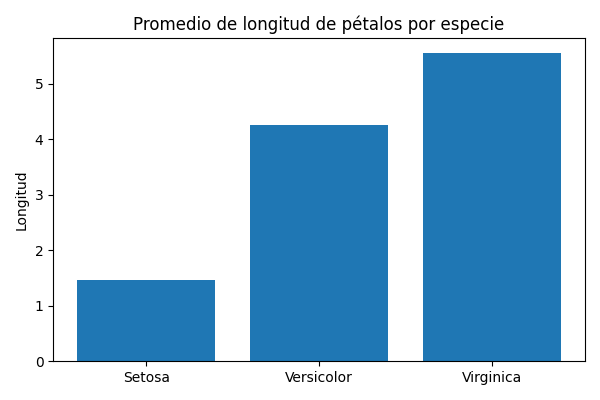
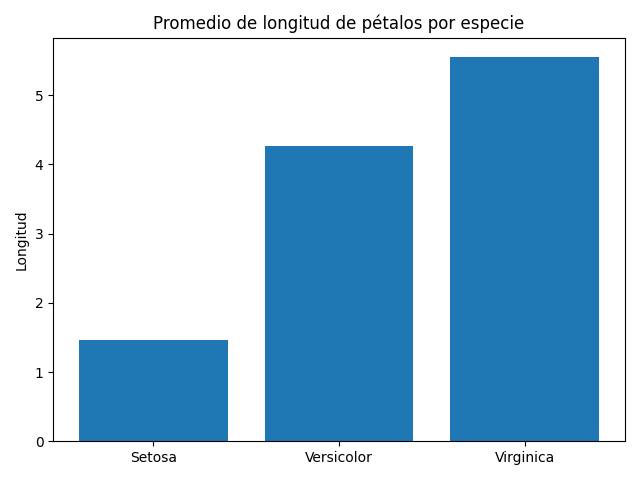
eliminar redundancias y agregar condicionales al análisis

Changed region(s): [[0.0, 0.03, 0.99, 0.99]]

diff --git a/main.py b/main.py
@@ -2,6 +2,7 @@ import json
 import pandas as pd
 import matplotlib.pyplot as plt
 import seaborn as sns
+import os
 
 # Para abrir el archivo JSON
 f = open("data/iris.json")
@@ -14,7 +15,6 @@ df = pd.DataFrame(data)
 print("Número de registros:", len(df))
 print("Columnas:", df.columns)
 print("\nVariables existentes:")
-print(list(data[0].keys()))
 
 
 print(df.head())
@@ -22,38 +22,48 @@ print(df.head())
 print("\nResumen estadistico del dataset:")
 print(df.describe())
 
-print("\nEstadísticas por especie:")
-print(df.groupby("variety").describe())
+resumen = df.groupby("variety").agg({
+    "sepal.length": ["mean", "min", "max"],
+    "sepal.width": ["mean", "min", "max"],
+    "petal.length": ["mean", "min", "max"],
+    "petal.width": ["mean", "min", "max"]
+})
 
-promedio = df.groupby("variety")["petal.length"].mean()
+print("\nResumen por especie:")
+print(resumen)
 
-#Promedio de pétalos por especie
-plt.figure(figsize=(6,4))
-plt.bar(promedio.index, promedio.values)
+promedios = df.groupby("variety").mean()
+
+plt.figure()
+plt.bar(promedios.index, promedios["petal.length"])
 plt.title("Promedio de longitud de pétalos por especie")
 plt.ylabel("Longitud")
 plt.tight_layout()
 plt.savefig("Visualizaciones/petal_promedio.png")
+plt.close()
 
-df.groupby("variety")["sepal.length"].mean().plot(kind="bar")
-
+# Promedio de sépalo
+plt.figure()
+plt.bar(promedios.index, promedios["sepal.length"])
 plt.title("Promedio del largo del sépalo por especie")
 plt.ylabel("Largo del sépalo")
-
 plt.xticks(rotation=45)
 plt.tight_layout()
-
 plt.savefig("Visualizaciones/sepal_promedio.png")
-plt.clf()
+plt.close()
 
-#Relación entre largo y ancho del sépalo por especie
+# Scatter
 sns.scatterplot(x="sepal.length", y="sepal.width", hue="variety", data=df)
-
 plt.title("Relación entre largo y ancho del sépalo")
 plt.tight_layout()
-
 plt.savefig("Visualizaciones/sepal_scatter.png")
-plt.clf()
+plt.close()
+
+mayor_petalo = promedios["petal.length"].idxmax()
+menor_petalo = promedios["petal.length"].idxmin()
+
+variabilidad = df.groupby("variety")["petal.length"].std()
+mas_variable = variabilidad.idxmax()
 
 reporte = f"""
 # Reporte de análisis del dataset Iris

diff --git a/Reporte/reporte.md b/Reporte/reporte.md
@@ -8,7 +8,7 @@ Esto ayuda a comparar las especies y entender mejor sus características.
 
 ## Promedio de longitud de pétalos por especie
 
-![Promedio de pétalos](../Visualizaciones/petal_promedio.png)
+![Promedio de pétalos](Visualizaciones/petal_promedio.png)
 
 Este gráfico muestra el promedio de la longitud de los pétalos para cada especie de flor.
 
@@ -16,7 +16,7 @@ Este gráfico muestra el promedio de la longitud de los pétalos para cada espec
 
 ## Promedio del largo del sépalo por especie
 
-![Promedio del sépalo](../Visualizaciones/sepal_promedio.png)
+![Promedio del sépalo](Visualizaciones/sepal_promedio.png)
 
 Aquí se puede ver que el tamaño del sépalo también cambia dependiendo de la especie.
 
@@ -24,7 +24,7 @@ Aquí se puede ver que el tamaño del sépalo también cambia dependiendo de la 
 
 ## Relación entre largo y ancho del sépalo por especie
 
-![Relación del sépalo](../Visualizaciones/sepal_scatter.png)
+![Relación del sépalo](Visualizaciones/sepal_scatter.png)
 
 En este gráfico se observa la relación entre el largo y el ancho del sépalo. Los puntos están coloreados por especie, lo que permite ver cómo se agrupan las flores.
 
